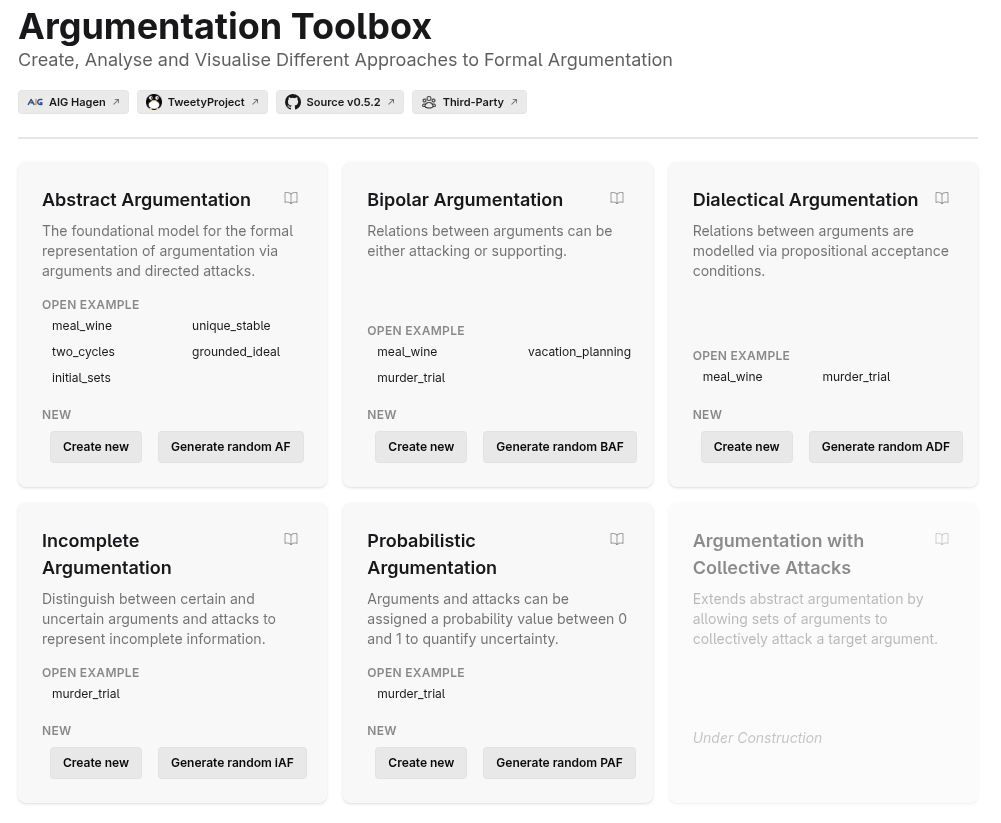
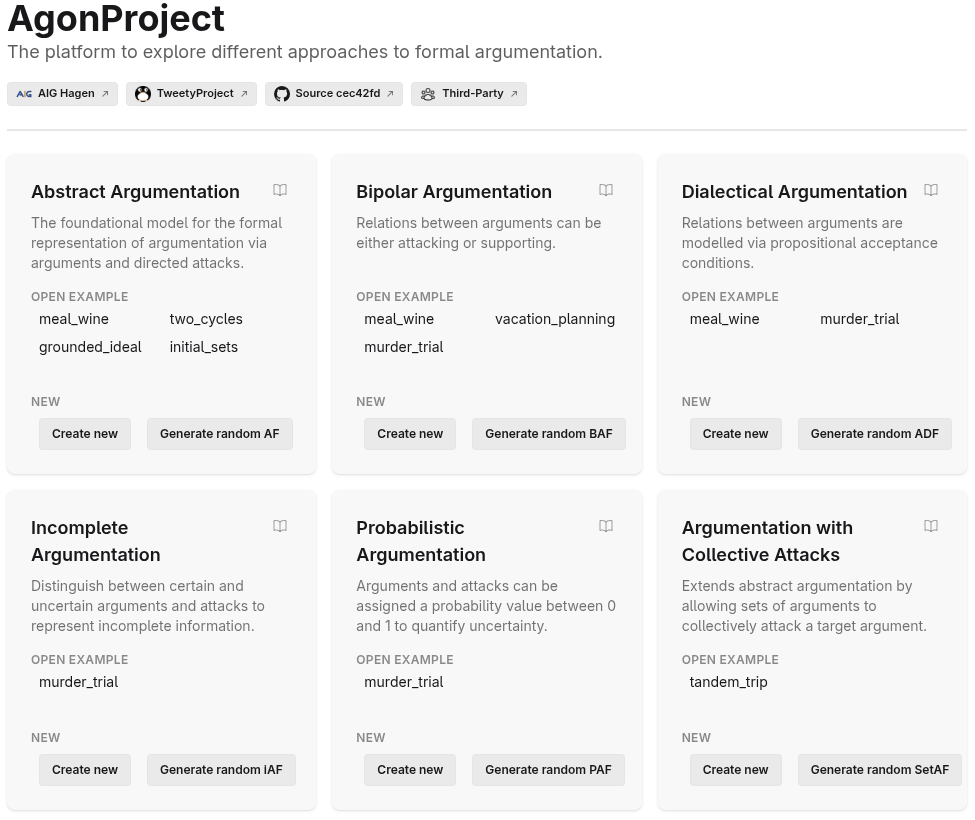
fix: update README and Vue components for consistency and clarity

diff --git a/src/modules/abstract-argumentation/WindowRanking.vue b/src/modules/abstract-argumentation/WindowRanking.vue
@@ -173,7 +173,7 @@ function onWindowFocus() { emit('setWeights', computeWeights()) }
             <div
               v-for="entry in numericalDisplayData"
               :key="entry.id"
-              class="flex items-center justify-between gap-2 rounded-lg px-3 py-1.5 border text-sm min-w-0"
+              class="flex items-center justify-between gap-2 rounded-lg px-3 py-1.5 border text-sm min-w-0 text-neutral-900"
               :style="{ backgroundColor: entry.bgColor, borderColor: entry.borderColor }"
             >
               <span class="font-medium truncate" :title="entry.name">{{ entry.name }}</span>

diff --git a/src/app/home/BlankDocumentCanvas.vue b/src/app/home/BlankDocumentCanvas.vue
@@ -62,7 +62,7 @@ function openContent(content: DocumentT, newNamePrefix: string) {
       <h2 class="text-2xl sm:text-4xl font-bold mb-2">
         AgonProject
         <div class="text-lg font-normal text-base-content/70">
-          The platform to explore different approaches to formal argumentation.
+          The platform to explore different approaches to formal argumentation
         </div>
       </h2>
       <HelpLinks />

diff --git a/README.md b/README.md
@@ -2,7 +2,7 @@
 
 The platform to explore different approaches to formal argumentation.
 
-[![Website](https://img.shields.io/badge/Live%20Demo-argumentation--toolbox.aig.fernuni--hagen.de-blue)](https://agonproject.aig.fernuni-hagen.de/)
+[![Website](https://img.shields.io/badge/Website-agonproject.aig.fernuni--hagen.de-blue)](https://agonproject.aig.fernuni-hagen.de/)
 [![License: GPL v3](https://img.shields.io/badge/License-GPLv3-blue.svg)](./LICENSE)
 
 ![Screenshot of the AgonProject landing page](docs/images/screenshot.png)
@@ -18,7 +18,7 @@ The platform to explore different approaches to formal argumentation.
 
 ## Features
 
-- **Interactive graph editor** — create and connect arguments visually, with undo/redo and auto-layouting
+- **Interactive graph editor** — create and connect arguments visually, with undo/redo, auto-layouting and grid-aligned placement
 - **Semantical evaluation** — compute extensions/interpretations under a wide range of semantics, with results highlighted directly on the graph
 - **Argument-ranking semantics** — compute argument-ranking semantics for abstract argumentation
 - **Serialisation sequences** — step through how admissible sets are built up incrementally via Serialisability
